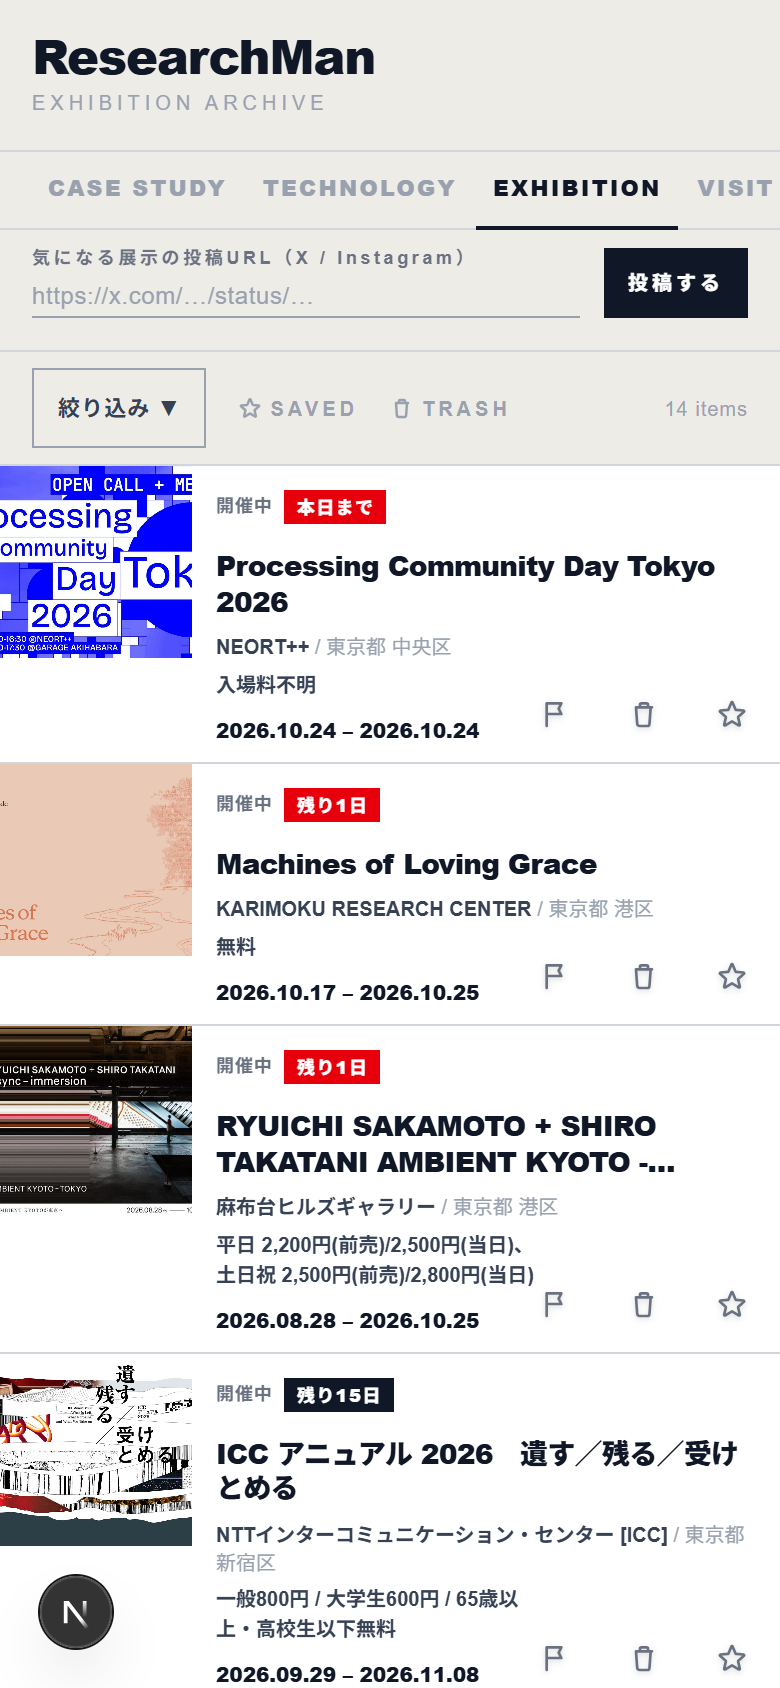
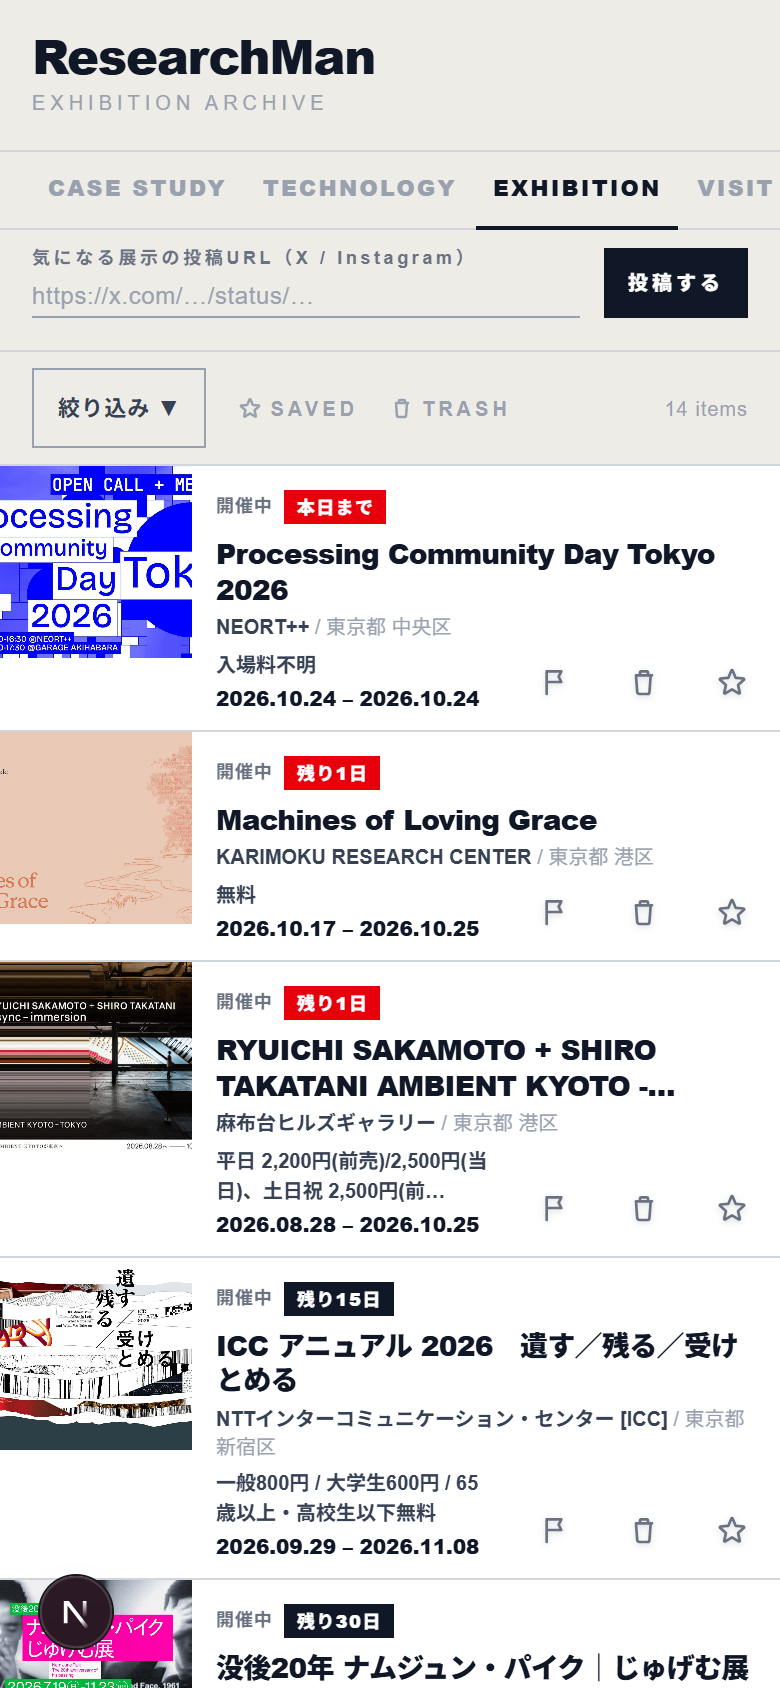
fix(exhibition): Clear all の sm 以上の位置ずれ、カード余白/文字サイズの重複指定、row 下段の右余白を修正

diff --git a/src/components/ExhibitionCard.tsx b/src/components/ExhibitionCard.tsx
@@ -60,7 +60,7 @@ export default function ExhibitionCard({
         href={`/exhibition/${e.slug}`}
         className={`block flex-1 min-w-0 ${row ? "p-3 pb-1" : compact ? "p-2.5 pb-1.5" : "p-4 pb-3"} sm:p-4 sm:pb-3`}
       >
-        <div className={`flex items-start justify-between mb-3 gap-2 ${row ? "mb-1.5" : compact ? "mb-2" : ""} sm:mb-3`}>
+        <div className={`flex items-start justify-between gap-2 sm:mb-3 ${row ? "mb-1.5" : compact ? "mb-2" : "mb-3"}`}>
           <span className={`items-center gap-1.5 ${row || compact ? "hidden sm:flex" : "flex"}`}>
             <span
               className="text-[11px] font-black tracking-[0.2em] uppercase text-gray-900 leading-none"
@@ -76,8 +76,8 @@ export default function ExhibitionCard({
         </div>
 
         <h2
-          className={`font-black leading-tight text-gray-900 mb-2 tracking-tight sm:text-base sm:line-clamp-none ${
-            row ? "text-sm line-clamp-2 mb-1" : compact ? "text-[13px] line-clamp-3 mb-1" : "text-base"
+          className={`font-black leading-tight text-gray-900 tracking-tight sm:text-base sm:mb-2 sm:line-clamp-none ${
+            row ? "text-sm line-clamp-2 mb-1" : compact ? "text-[13px] line-clamp-3 mb-1" : "text-base mb-2"
           }`}
         >{e.title}</h2>
         {e.artists.length > 0 && (
@@ -86,7 +86,7 @@ export default function ExhibitionCard({
 
         <div className={`w-5 h-px bg-gray-900 mb-2 ${row ? "hidden sm:block" : compact ? "hidden sm:block" : ""}`} />
 
-        <p className={`text-[10px] text-gray-500 leading-snug line-clamp-2 ${compact ? "text-[9px] sm:text-[10px]" : ""}`}>
+        <p className={`text-gray-500 leading-snug line-clamp-2 sm:text-[10px] ${compact ? "text-[9px]" : "text-[10px]"}`}>
           <span className="font-bold text-gray-700">{e.venue}</span>
           <span className="text-gray-400">
             {" "}
@@ -107,12 +107,12 @@ export default function ExhibitionCard({
       </Link>
 
       <div
-        className={`flex justify-between gap-2 sm:px-4 sm:pb-3 sm:flex-row sm:items-center ${
+        className={`flex justify-between sm:gap-2 sm:px-4 sm:pb-3 sm:flex-row sm:items-center ${
           row
-            ? "px-3 pb-2 flex-col items-start gap-0.5 pr-[7.5rem]"
+            ? "px-3 pb-2 flex-col items-start gap-0.5 pr-36"
             : compact
               ? "px-2.5 pb-2 flex-col items-start gap-0.5"
-              : "px-4 pb-3 items-center"
+              : "px-4 pb-3 items-center gap-2"
         }`}
       >
         <span className="text-[10px] font-bold text-gray-700 min-w-0 line-clamp-2 sm:line-clamp-none">{e.admission === "UNKNOWN" ? "入場料不明" : e.admission}</span>

diff --git a/src/components/ExhibitionGalleryClient.tsx b/src/components/ExhibitionGalleryClient.tsx
@@ -139,7 +139,7 @@ export default function ExhibitionGalleryClient({ items, initialToday, tagVocabu
                 setTag("");
                 setStatus("");
               }}
-              className="self-start min-h-10 sm:min-h-0 text-[10px] tracking-widest uppercase text-gray-400 hover:text-gray-900"
+              className="self-start sm:self-auto min-h-10 sm:min-h-0 text-[10px] tracking-widest uppercase text-gray-400 hover:text-gray-900"
             >
               Clear all
             </button>
